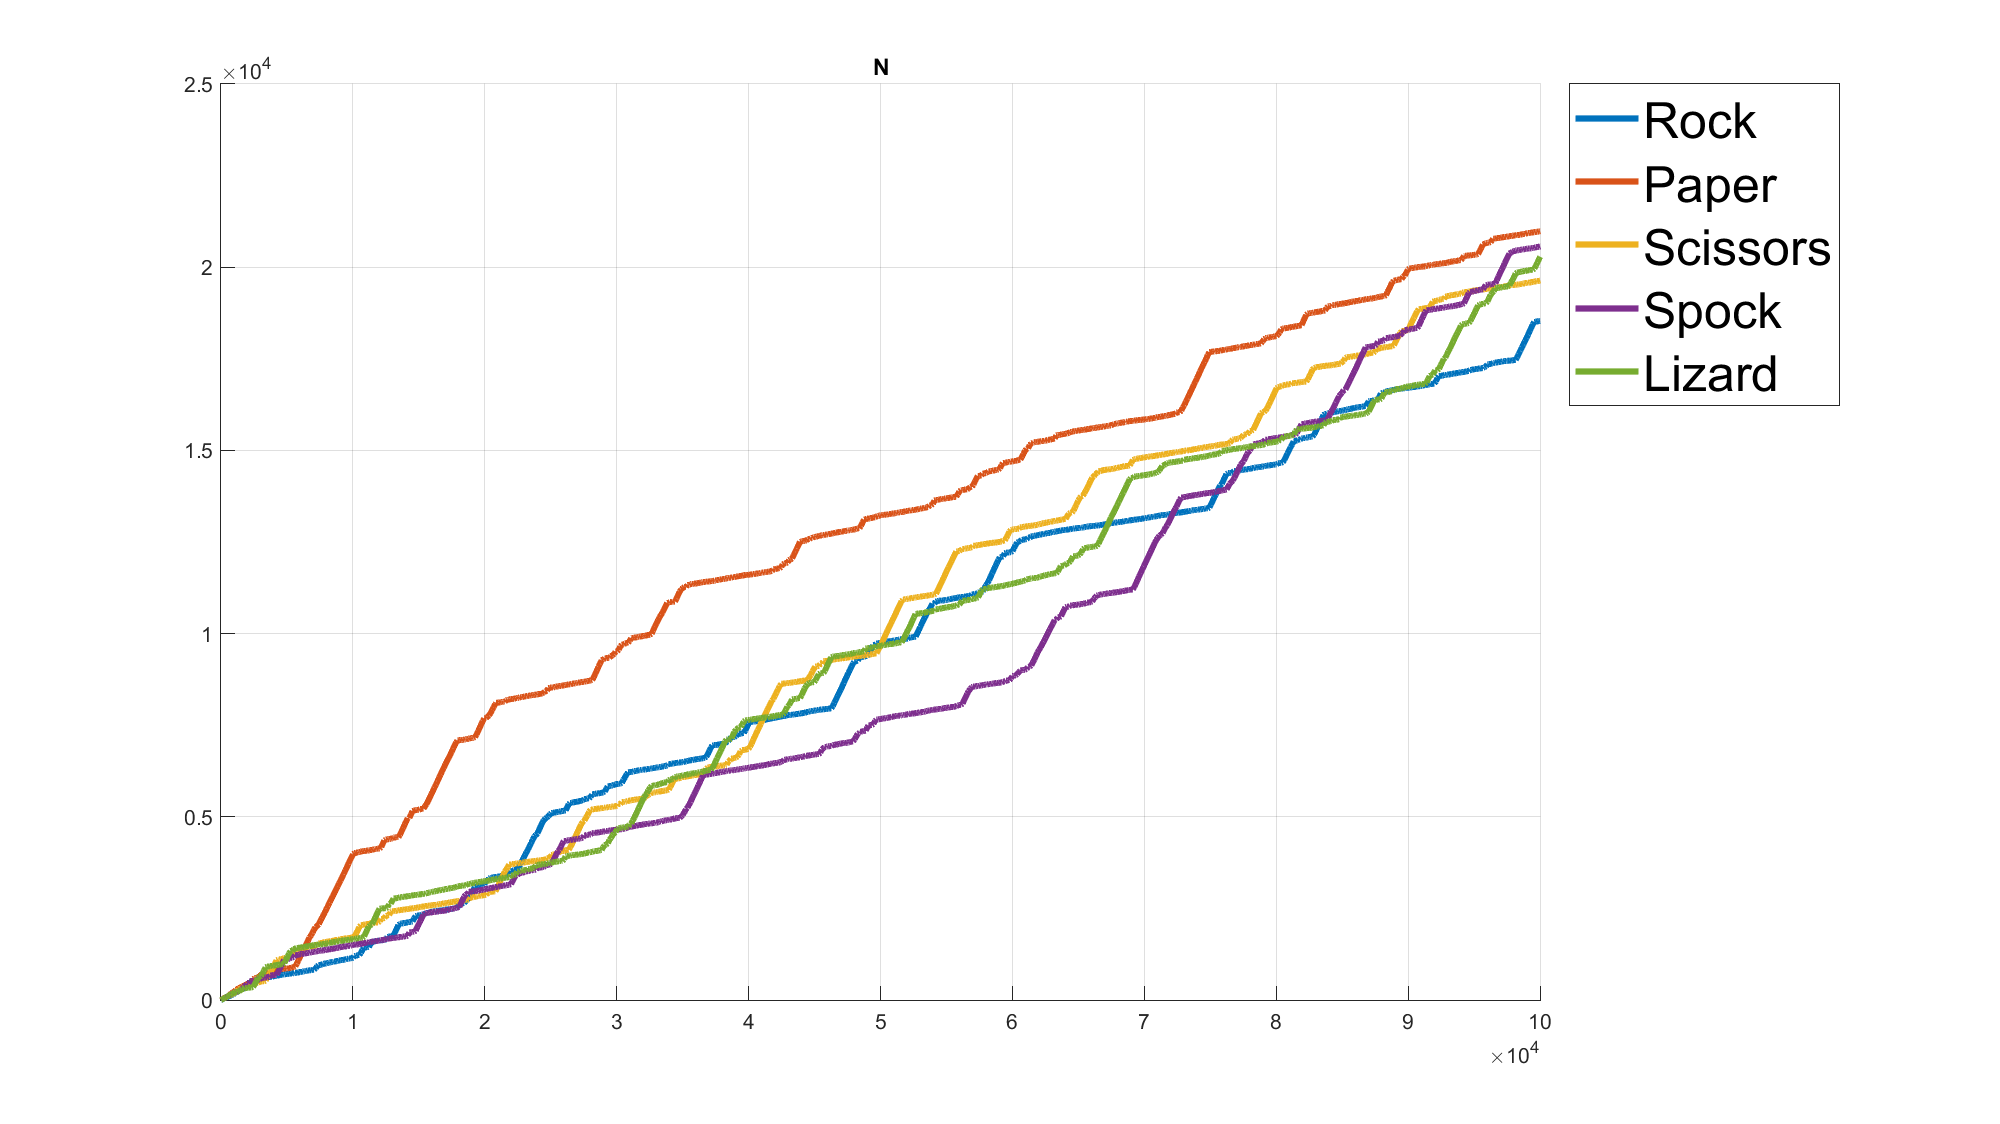
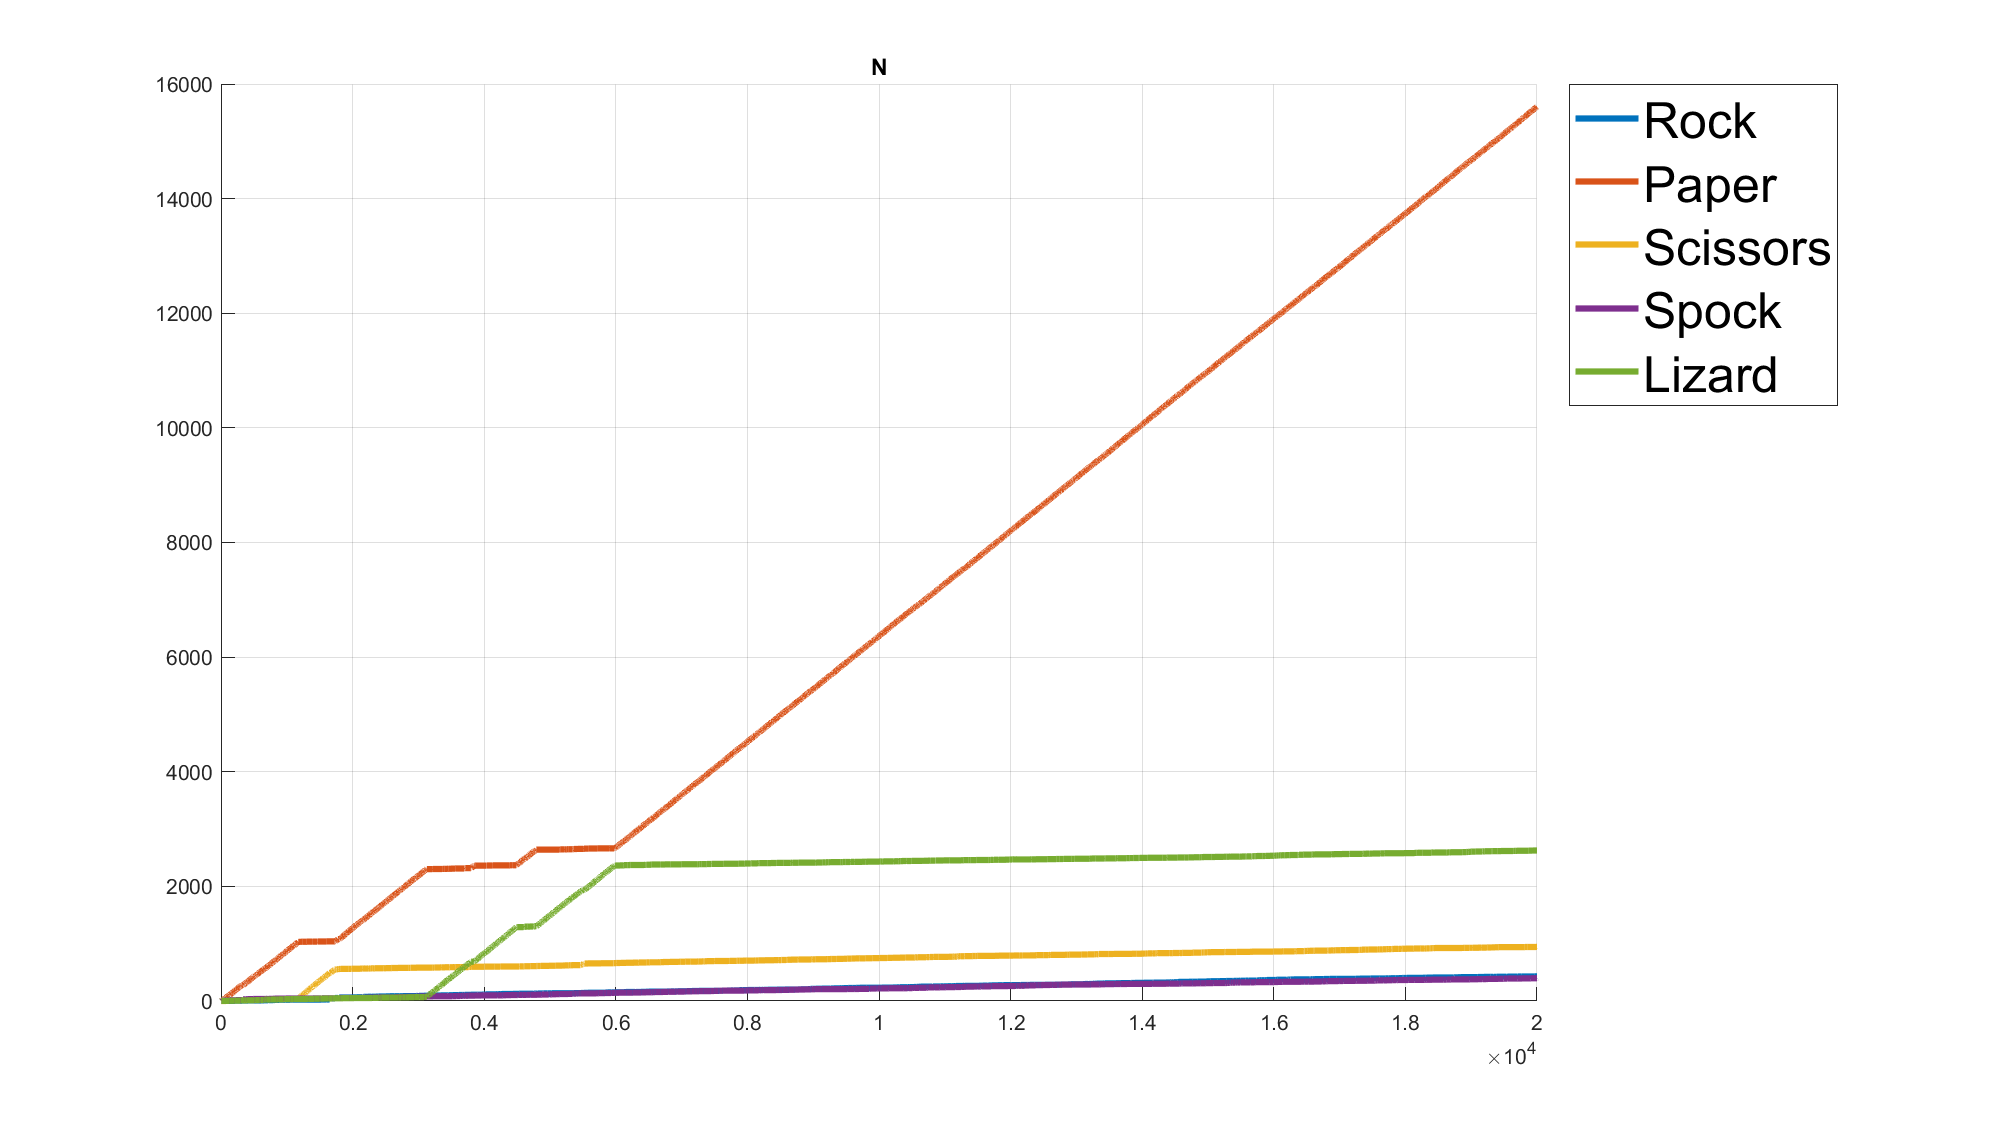
Updated rel1 e-greedy

diff --git a/rel1/stationary_equiprobable_case/e_greedy_s_ep.m b/rel1/stationary_equiprobable_case/e_greedy_s_ep.m
@@ -5,9 +5,8 @@ clc
 rng(422) % set the random seed
 
 A = 5; % dimension action space
-epsilon = 3e-1; % probability we take a random action
-alpha = 5e-3;
-lengthEpisode = 100000; % number of actions to take
+epsilon = 1e-1; % probability we take a random action
+lengthEpisode = 20000; % number of actions to take
 
 Q = ones(A, 1); % estimate of the value of actions
 N = zeros(A, 1); % number of times we take each action
@@ -47,7 +46,7 @@ for i = 1:lengthEpisode
 
     % update N and Q
     N(agent_int) = N(agent_int) + 1;
-    Q(agent_int) = Q(agent_int) + alpha*(r - Q(agent_int));
+    Q(agent_int) = Q(agent_int) + (1 / N(agent_int))*(r - Q(agent_int));
 
     % save the history
     historyQ(:,i) = Q;
